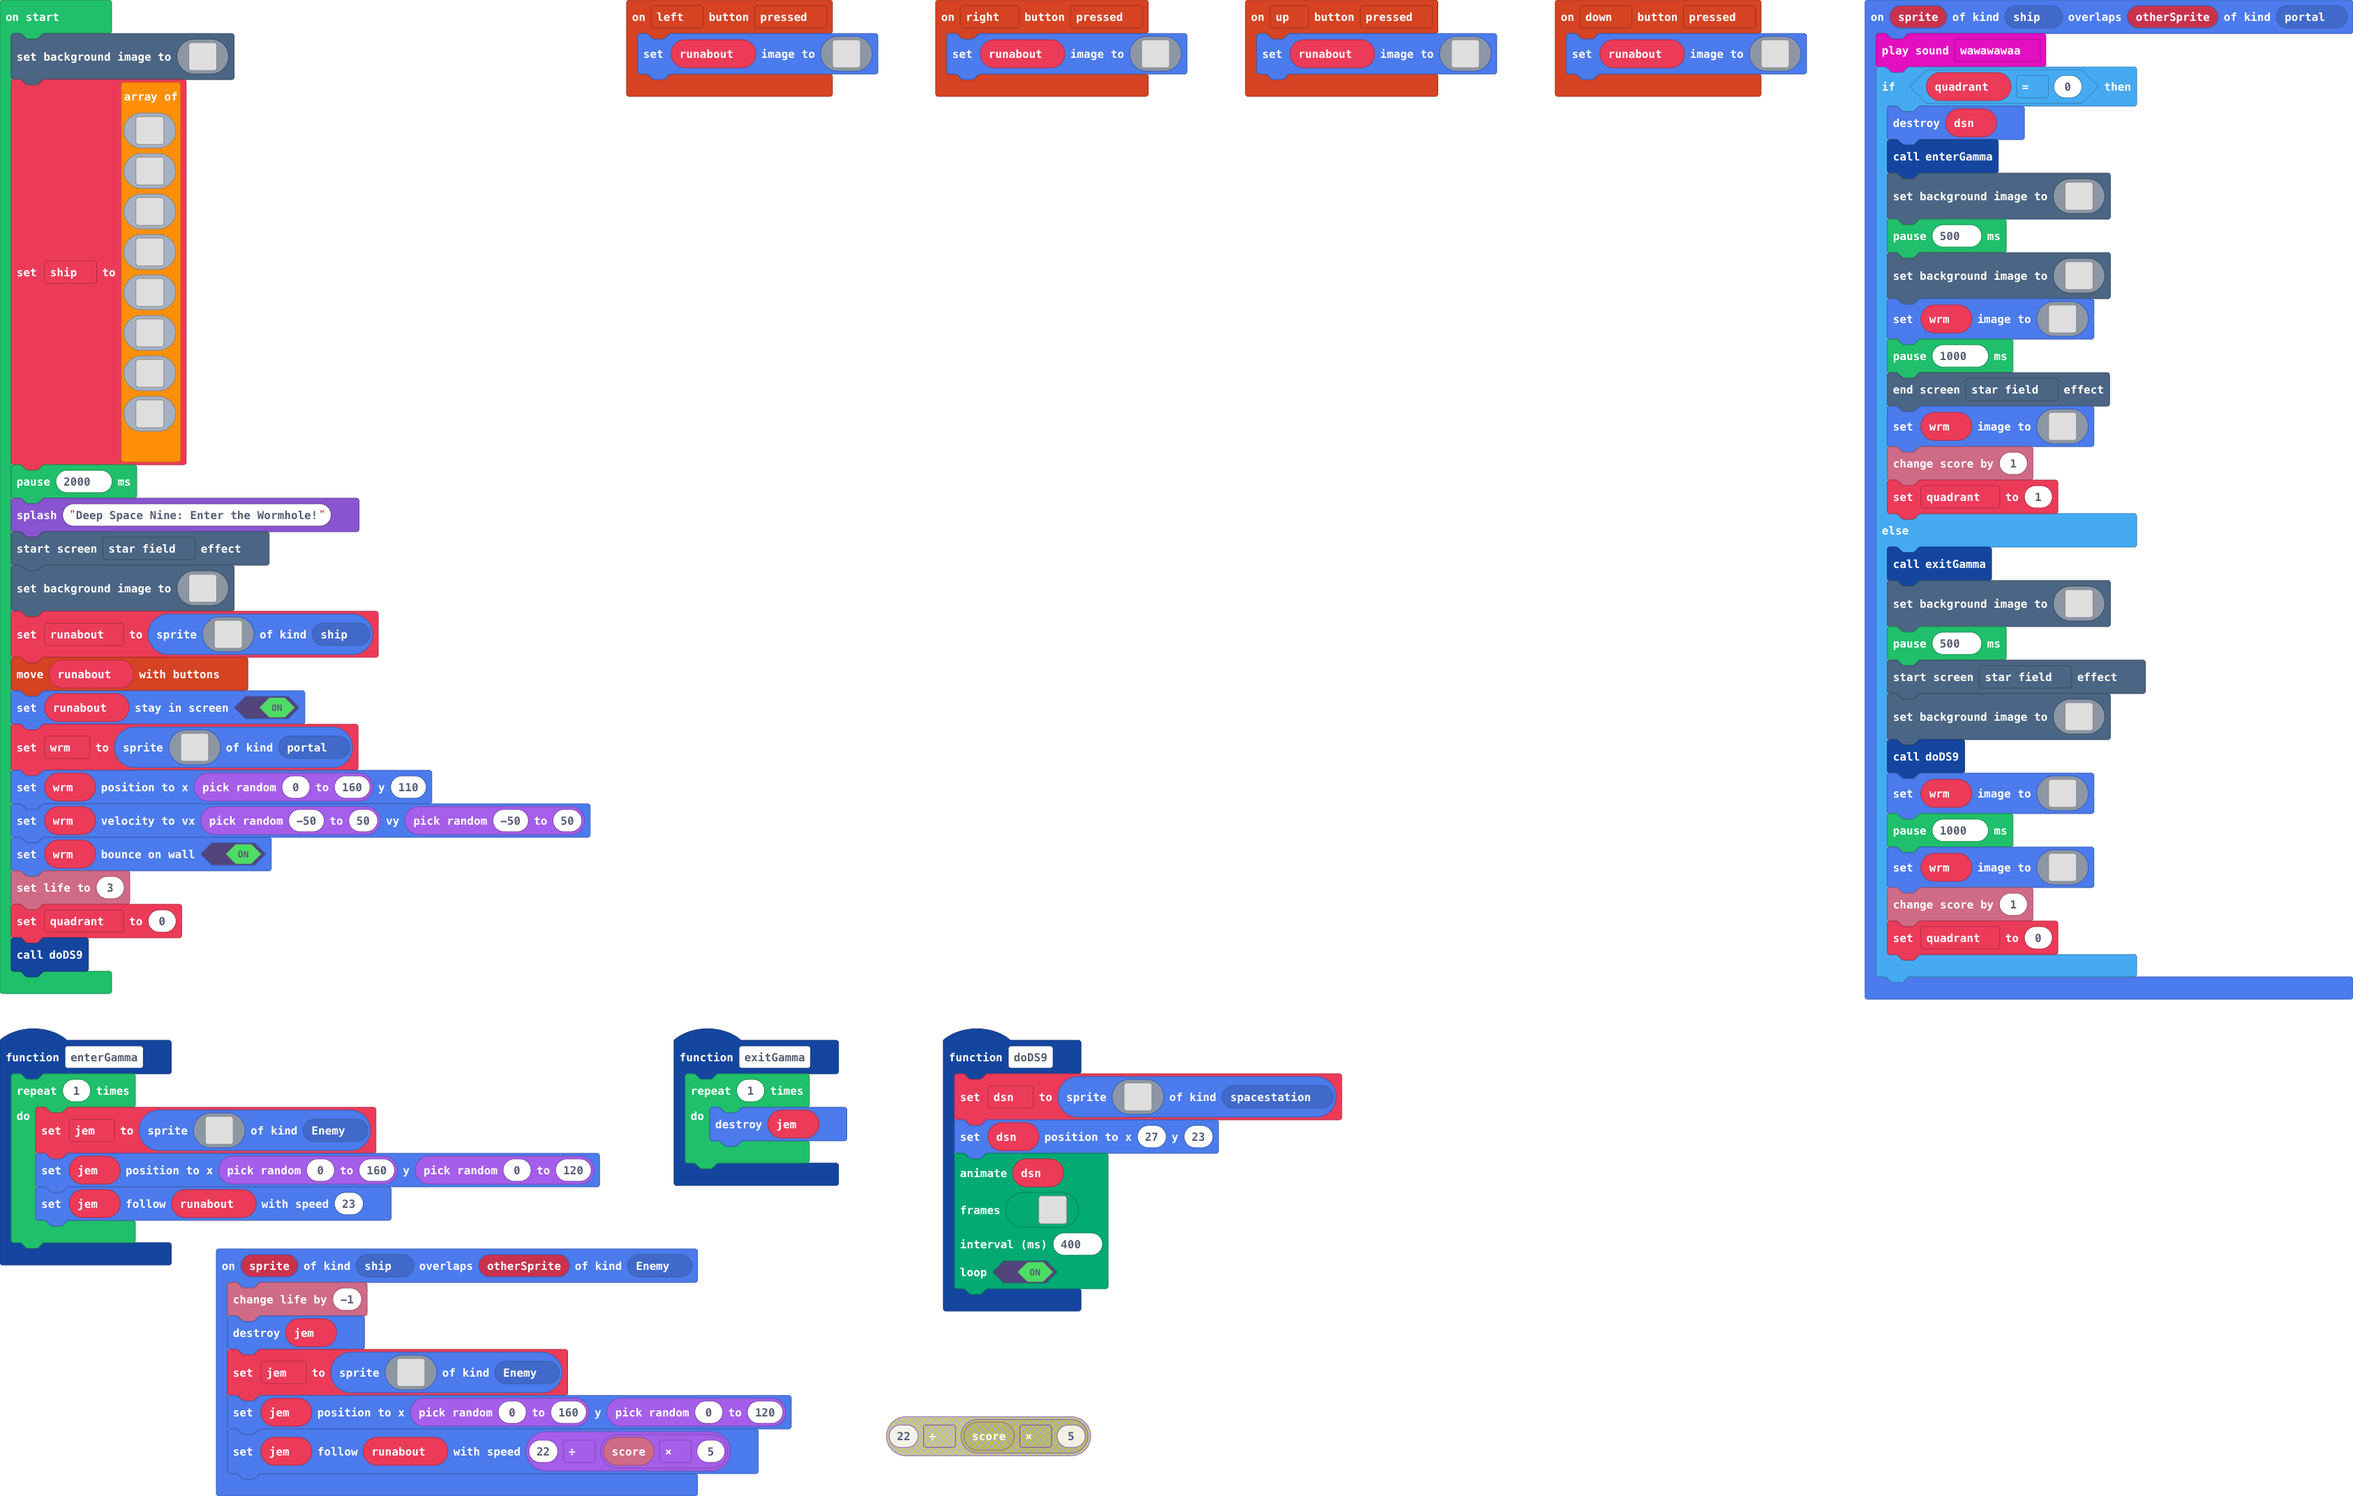
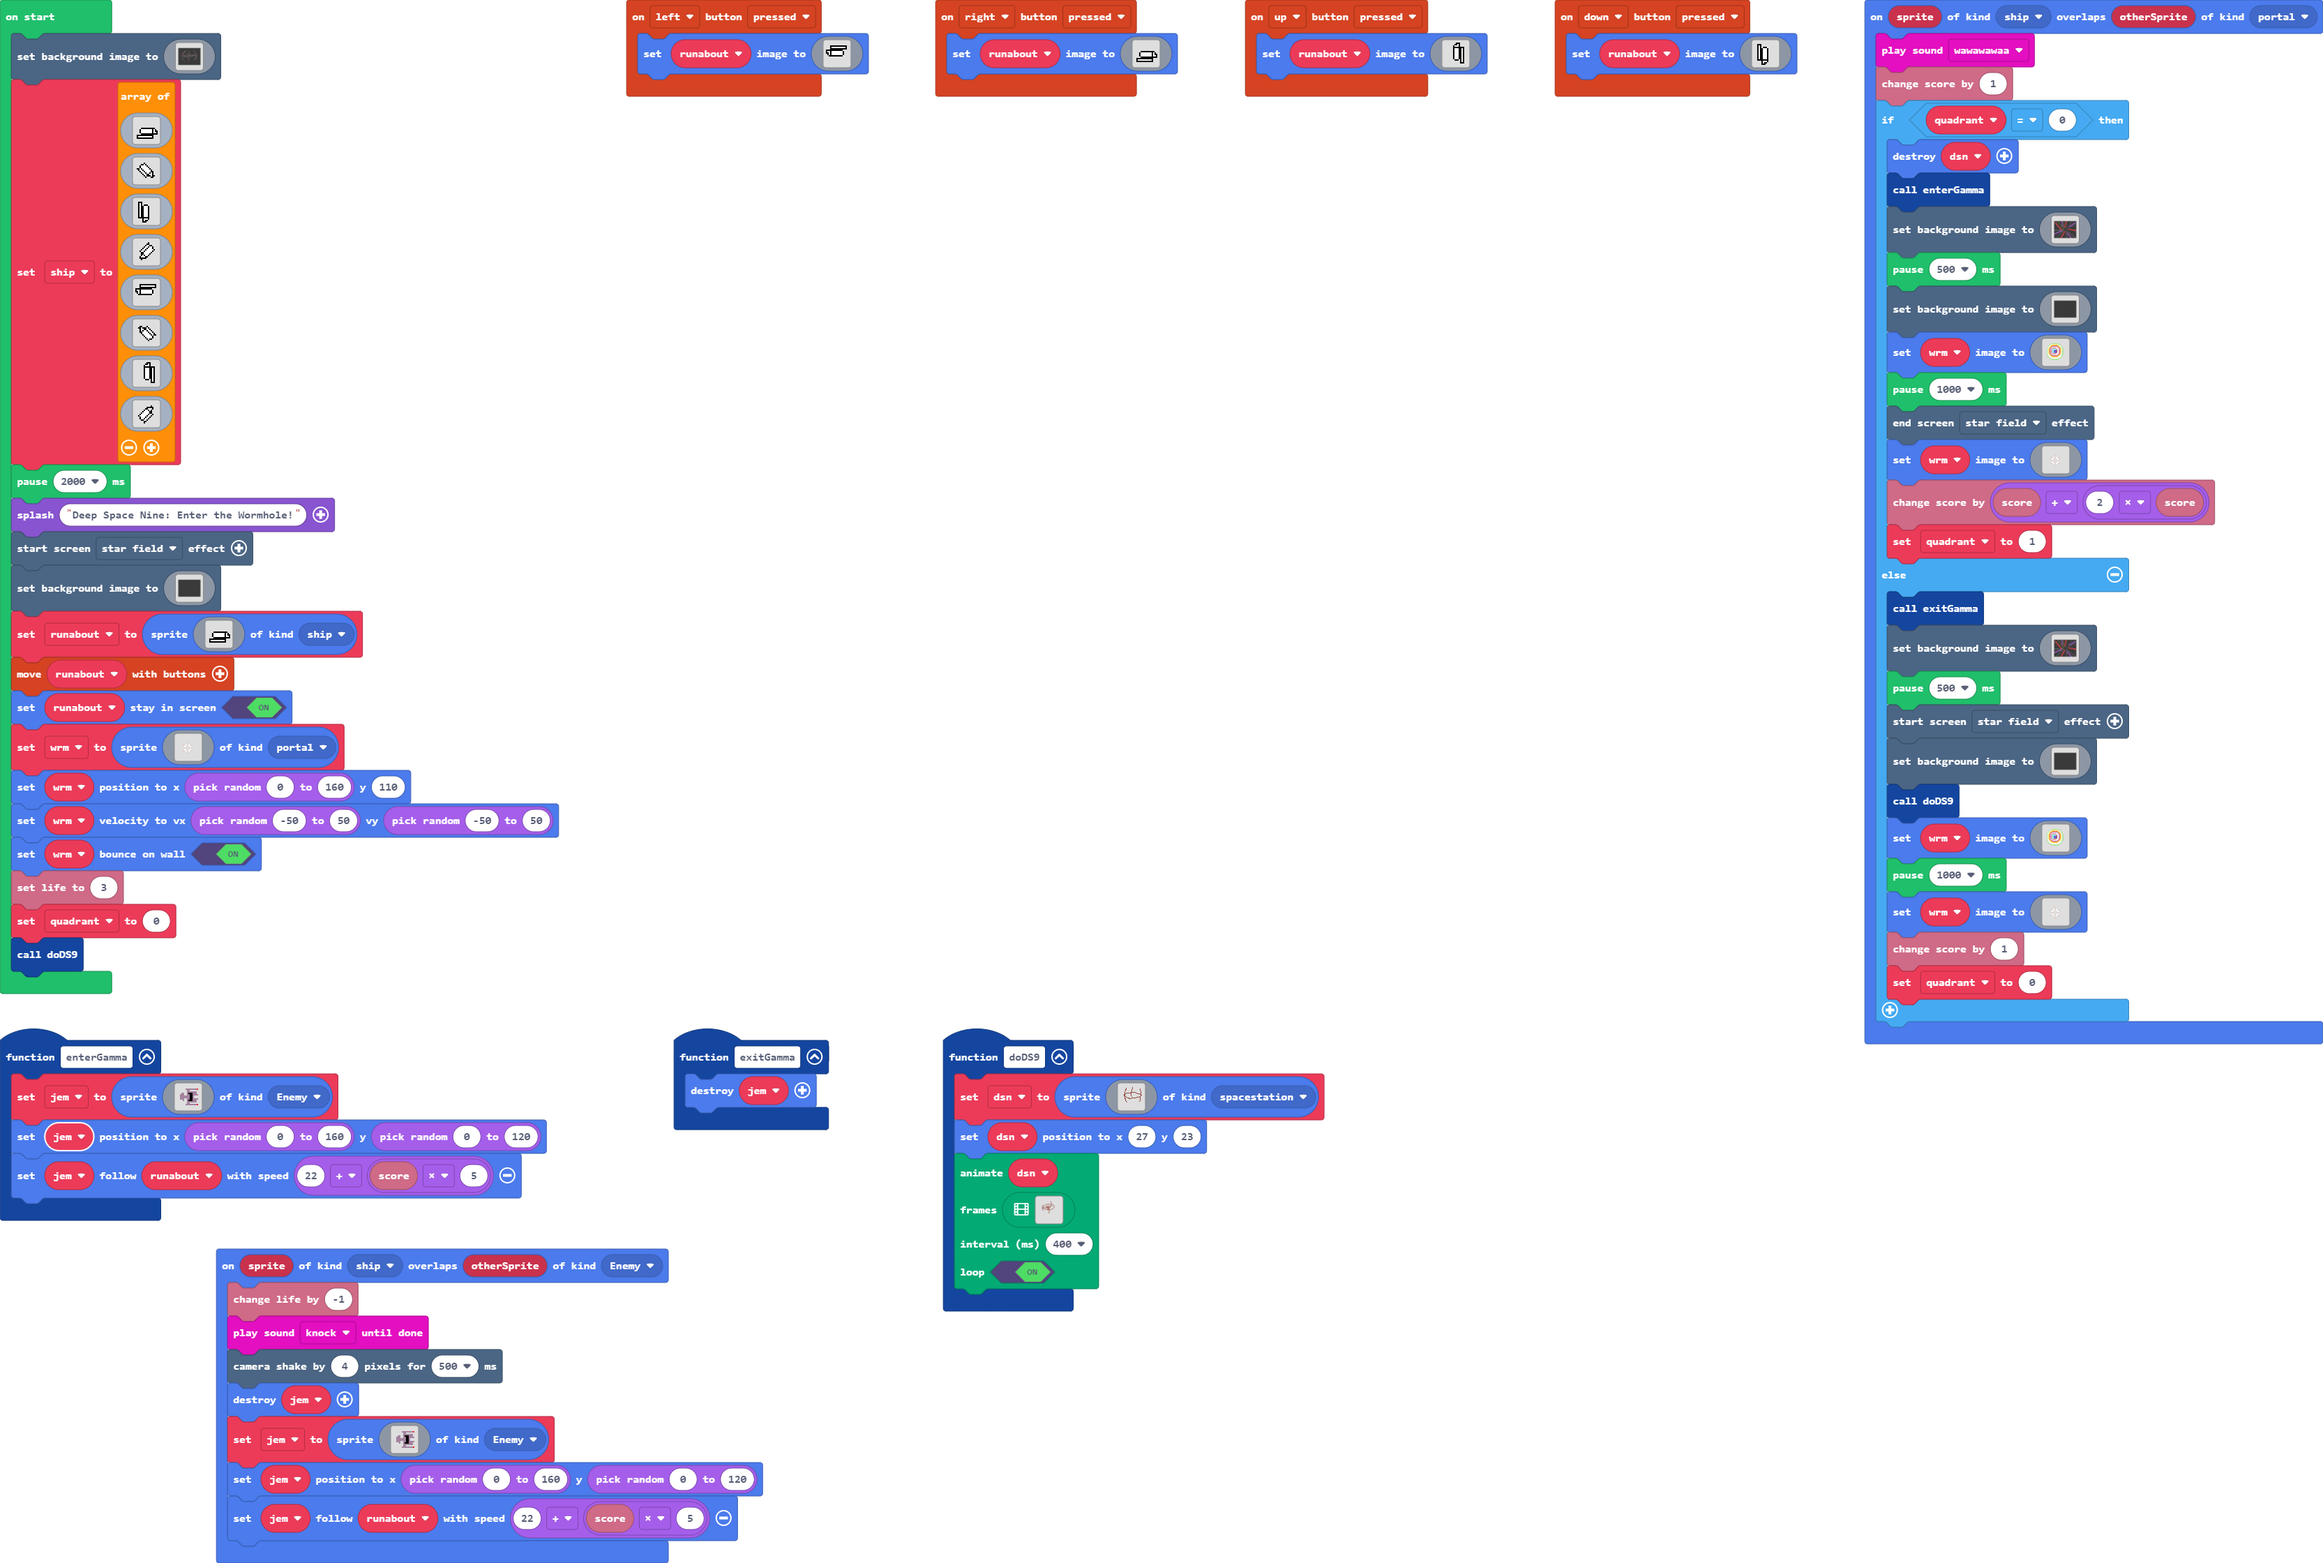
Update main.blocks, main.ts

Changed region(s): [[0.0, 0.0, 0.5934, 1.0], [0.2498, 0.0, 0.9994, 0.6875], [0.3748, 0.9375, 0.4685, 1.0]]

diff --git a/main.ts b/main.ts
@@ -11,13 +11,16 @@ controller.left.onEvent(ControllerButtonEvent.Pressed, function () {
 })
 sprites.onOverlap(SpriteKind.ship, SpriteKind.Enemy, function (sprite, otherSprite) {
     info.changeLifeBy(-1)
+    music.knock.playUntilDone()
+    scene.cameraShake(4, 500)
     jem.destroy()
     jem = sprites.create(assets.image`jem hadar`, SpriteKind.Enemy)
     jem.setPosition(randint(0, 160), randint(0, 120))
-    jem.follow(runabout, 22 / (info.score() * 5))
+    jem.follow(runabout, 22 + info.score() * 5)
 })
 sprites.onOverlap(SpriteKind.ship, SpriteKind.portal, function (sprite, otherSprite) {
     music.wawawawaa.play()
+    info.changeScoreBy(1)
     if (quadrant == 0) {
         dsn.destroy()
         enterGamma()
@@ -270,7 +273,7 @@ sprites.onOverlap(SpriteKind.ship, SpriteKind.portal, function (sprite, otherSpr
         pause(1000)
         effects.starField.endScreenEffect()
         wrm.setImage(assets.image`small wormhole`)
-        info.changeScoreBy(1)
+        info.changeScoreBy(info.score() + 2 * info.score())
         quadrant = 1
     } else {
         exitGamma()
@@ -535,16 +538,12 @@ controller.down.onEvent(ControllerButtonEvent.Pressed, function () {
     runabout.setImage(assets.image`myImage0`)
 })
 function exitGamma () {
-    for (let index = 0; index < 1; index++) {
-        jem.destroy()
-    }
+    jem.destroy()
 }
 function enterGamma () {
-    for (let index = 0; index < 1; index++) {
-        jem = sprites.create(assets.image`jem hadar`, SpriteKind.Enemy)
-        jem.setPosition(randint(0, 160), randint(0, 120))
-        jem.follow(runabout, 23)
-    }
+    jem = sprites.create(assets.image`jem hadar`, SpriteKind.Enemy)
+    jem.setPosition(randint(0, 160), randint(0, 120))
+    jem.follow(runabout, 22 + info.score() * 5)
 }
 function doDS9 () {
     dsn = sprites.create(assets.image`myImage`, SpriteKind.spacestation)
